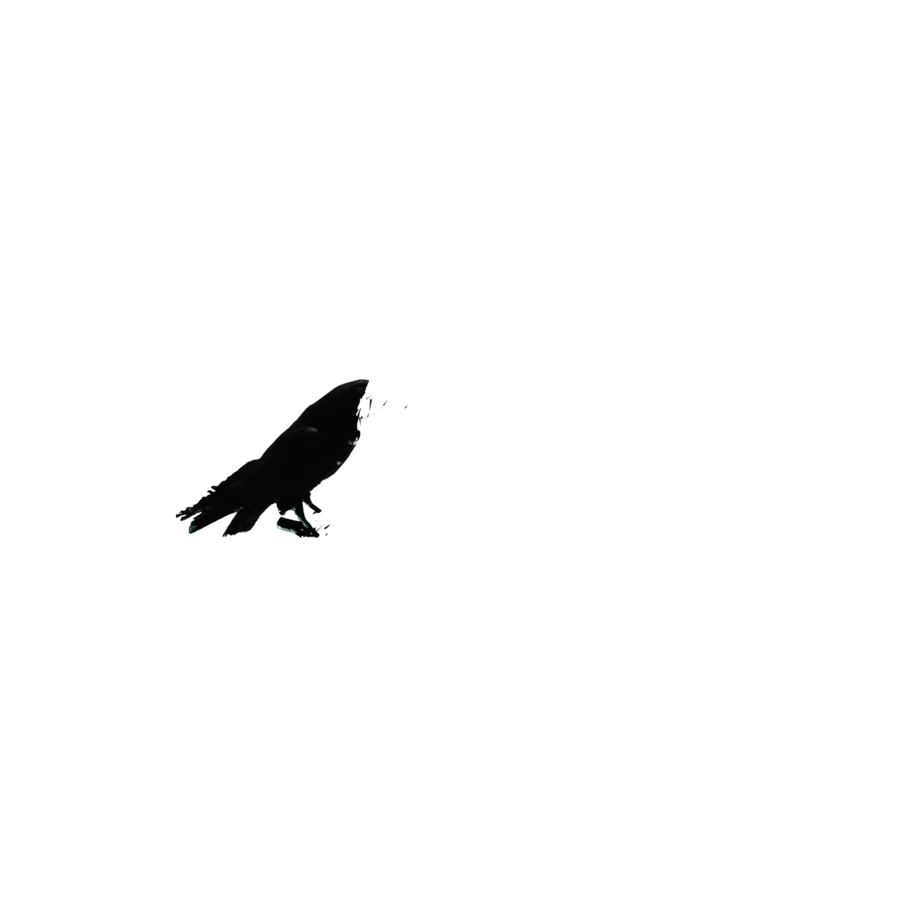
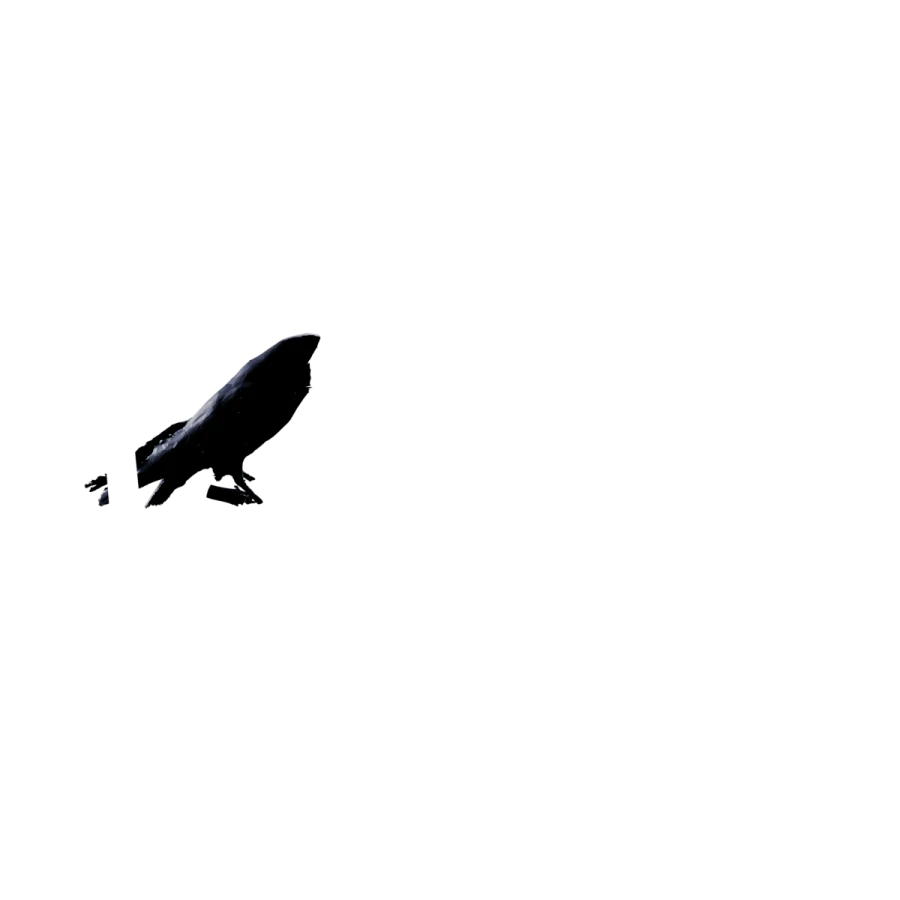
Blackwing v6: new rim-lit Odin render, 3D northern Mimir's Well

Changed region(s): [[0.1244, 0.3733, 0.4044, 0.5911], [0.0933, 0.5289, 0.1244, 0.56]]

diff --git a/blackwing/well3d.js b/blackwing/well3d.js
@@ -1,0 +1,189 @@
+// MÍMIR'S WELL in 3D. Everything here is built in code, no downloaded models:
+// a ring of rough-hewn standing stones with glowing carved runes, the roots of Yggdrasil plunging into the water,
+// and, at the bottom, Odin's eye as a sigil of light (a gold iris of fibres inside rotating rune rings) rather than a human eyeball.
+// The eye is drawn into a render target and seen through a water shader that bends it with every ripple you make.
+// Builds only when you get near the section; renders only while visible, at most 30 fps.
+import * as THREE from "three";
+
+const host = document.querySelector(".well-3d");
+const reduce = matchMedia("(prefers-reduced-motion: reduce)").matches;
+const rnd = (a, b) => a + Math.random() * (b - a);
+const RUNES = "ᚠᚢᚦᚨᚱᚲᚷᚹᚺᚾᛁᛃᛇᛈᛉᛊᛏᛒᛖᛗᛚᛜᛞᛟ";
+
+if (host) {
+  const near = new IntersectionObserver(es => { if (es[0].isIntersecting) { near.disconnect(); build().catch(e => { document.documentElement.classList.add("no-well3d"); console.warn("Well failed", e); }); } }, { rootMargin: "1200px 0px" });
+  near.observe(host);
+}
+
+async function build() {
+  let renderer;
+  try { renderer = new THREE.WebGLRenderer({ alpha: true, antialias: true, powerPreference: "high-performance" }); } catch { document.documentElement.classList.add("no-well3d"); return; }
+  try { await document.fonts?.load('64px "Noto Sans Runic"'); } catch {}
+  renderer.outputColorSpace = THREE.SRGBColorSpace; renderer.toneMapping = THREE.ACESFilmicToneMapping; renderer.toneMappingExposure = 1.1;
+  renderer.setPixelRatio(Math.min(devicePixelRatio || 1, 1.5));
+  const canvas = renderer.domElement; canvas.setAttribute("aria-hidden", "true");
+  const cam = new THREE.PerspectiveCamera(30, 1, .05, 40); cam.position.set(0, 2.2, 2.45); cam.lookAt(0, -.2, 0);
+  const tex = c => { const t = new THREE.CanvasTexture(c); t.colorSpace = THREE.SRGBColorSpace; t.anisotropy = 4; return t; };
+  const cnv = (w, h = w) => { const c = document.createElement("canvas"); c.width = w; c.height = h; return [c, c.getContext("2d")]; };
+  const add = (mat) => Object.assign(mat, { transparent: true, depthWrite: false, blending: THREE.AdditiveBlending });
+
+  /* ---------- textures painted once ---------- */
+  const irisTex = (() => { const R = 256, [c, g] = cnv(R * 2);
+    const gr = g.createRadialGradient(R, R, R * .16, R, R, R); gr.addColorStop(0, "rgba(255,244,205,1)"); gr.addColorStop(.3, "rgba(242,196,92,1)"); gr.addColorStop(.66, "rgba(185,115,29,.9)"); gr.addColorStop(.92, "rgba(80,42,11,.6)"); gr.addColorStop(1, "rgba(20,10,4,0)");
+    g.fillStyle = gr; g.beginPath(); g.arc(R, R, R, 0, 6.283); g.fill();
+    for (let i = 0; i < 900; i++) { const a = Math.random() * 6.283, r0 = R * (.18 + Math.random() * .1), r1 = R * (.5 + Math.random() * .42), b = (Math.random() - .5) * .3;
+      g.strokeStyle = Math.random() < .6 ? `rgba(255,236,180,${(.05 + Math.random() * .22).toFixed(2)})` : `rgba(60,28,6,${(.08 + Math.random() * .22).toFixed(2)})`; g.lineWidth = .6 + Math.random() * 1.6;
+      g.beginPath(); g.moveTo(R + Math.cos(a) * r0, R + Math.sin(a) * r0); g.quadraticCurveTo(R + Math.cos(a + b) * (r0 + r1) / 2, R + Math.sin(a + b) * (r0 + r1) / 2, R + Math.cos(a) * r1, R + Math.sin(a) * r1); g.stroke(); }
+    g.strokeStyle = "rgba(255,220,150,.55)"; g.lineWidth = 3; g.beginPath();
+    for (let i = 0; i <= 80; i++) { const a = i / 80 * 6.283, rr = R * (.38 + (i % 2 ? .045 : -.02)); i ? g.lineTo(R + Math.cos(a) * rr, R + Math.sin(a) * rr) : g.moveTo(R + Math.cos(a) * rr, R + Math.sin(a) * rr); } g.stroke();
+    return tex(c); })();
+  const ringTex = (count, size, inner, color) => { const R = 512, [c, g] = cnv(R * 2);
+    g.strokeStyle = color; g.globalAlpha = .55; g.lineWidth = 3; g.beginPath(); g.arc(R, R, R * inner, 0, 6.283); g.stroke(); g.beginPath(); g.arc(R, R, R * (inner + .14), 0, 6.283); g.stroke();
+    g.globalAlpha = 1; g.fillStyle = color; g.font = `${size}px "Noto Sans Runic", serif`; g.textAlign = "center"; g.textBaseline = "middle";
+    for (let i = 0; i < count; i++) { const a = i / count * 6.283; g.save(); g.translate(R + Math.cos(a) * R * (inner + .07), R + Math.sin(a) * R * (inner + .07)); g.rotate(a + Math.PI / 2); g.fillText(RUNES[i % RUNES.length], 0, 0); g.restore(); }
+    return tex(c); };
+  const vesicaTex = (() => { const [c, g] = cnv(1024, 512); g.strokeStyle = "rgba(255,226,160,1)"; g.lineWidth = 6; g.shadowColor = "#ffcf73"; g.shadowBlur = 24;
+    g.beginPath(); g.moveTo(40, 256); g.quadraticCurveTo(512, -40, 984, 256); g.quadraticCurveTo(512, 552, 40, 256); g.stroke(); return tex(c); })();
+  const softTex = (() => { const [c, g] = cnv(128); const r = g.createRadialGradient(64, 64, 0, 64, 64, 64); r.addColorStop(0, "rgba(255,255,255,1)"); r.addColorStop(1, "rgba(255,255,255,0)"); g.fillStyle = r; g.fillRect(0, 0, 128, 128); return tex(c); })();
+  const runeGlyph = ch => { const [c, g] = cnv(128); g.fillStyle = "#ffd27a"; g.shadowColor = "#ffb84d"; g.shadowBlur = 18; g.font = '92px "Noto Sans Runic", serif'; g.textAlign = "center"; g.textBaseline = "middle"; g.fillText(ch, 64, 70); return tex(c); };
+
+  /* ---------- the deep: Odin's eye as a sigil of light (rendered to a texture, seen through the water) ---------- */
+  const deep = new THREE.Scene(); deep.background = new THREE.Color(0x04050a);
+  deep.add(new THREE.AmbientLight(0x30324a, .7));
+  const wall = new THREE.Mesh(new THREE.CylinderGeometry(1.0, .82, 1.9, 40, 1, true), new THREE.MeshStandardMaterial({ color: 0x1b1a20, roughness: 1, side: THREE.BackSide, flatShading: true }));
+  wall.position.y = -.95; wall.scale.set(1.05, 1, 1.05); deep.add(wall);
+  const eye = new THREE.Group(); eye.position.y = -.5; eye.rotation.x = -Math.PI / 2; deep.add(eye);
+  const disc = (t, s, opts = {}) => { const m = new THREE.Mesh(new THREE.PlaneGeometry(s, s), add(new THREE.MeshBasicMaterial({ map: t, ...opts }))); eye.add(m); return m; };
+  const halo = disc(softTex, 2.1, { color: 0xe3a83c, opacity: .35 });
+  const ringOuter = disc(ringTex(32, 46, .78, "#c9a45c"), 1.75, { opacity: .55 });
+  const ringInner = disc(ringTex(20, 40, .62, "#9fe6dc"), 1.25, { opacity: .45 });
+  const iris = disc(irisTex, .74);
+  const pupil = new THREE.Mesh(new THREE.CircleGeometry(.12, 40), new THREE.MeshBasicMaterial({ color: 0x020203 })); pupil.position.z = .002; eye.add(pupil);
+  const vesica = disc(vesicaTex, 1.5, { opacity: .7 }); vesica.scale.set(1, .5, 1);
+  const gold = new THREE.PointLight(0xffc56b, 1.6, 2.4, 1.4); gold.position.set(0, -.6, 0); deep.add(gold);
+  const motesDeep = (() => { const n = 40, p = new Float32Array(n * 3); for (let i = 0; i < n; i++) { const a = rnd(0, 6.28), r = Math.sqrt(Math.random()) * .8; p.set([Math.cos(a) * r, rnd(-.9, -.1), Math.sin(a) * r], i * 3); }
+    const g = new THREE.BufferGeometry(); g.setAttribute("position", new THREE.BufferAttribute(p, 3));
+    const m = new THREE.Points(g, add(new THREE.PointsMaterial({ map: softTex, color: 0xffd27a, size: .05, opacity: .7 }))); deep.add(m); return m; })();
+
+  /* ---------- the surface world: stones, runes, roots, mist ---------- */
+  const scene = new THREE.Scene();
+  scene.add(new THREE.AmbientLight(0x2a2c44, 1.1));
+  const moon = new THREE.DirectionalLight(0xb8c0e8, .75); moon.position.set(-2, 4, 1.5); scene.add(moon);
+  const rimT = new THREE.DirectionalLight(0x45d6c4, 1.0); rimT.position.set(3, 1.5, -3); scene.add(rimT);
+  const glowUp = new THREE.PointLight(0xffb25a, 3, 3.4, 1.3); glowUp.position.set(0, -.05, 0); scene.add(glowUp);   // the eye lights everything from below
+
+  // rough-hewn blocks: a box, subdivided and jittered so no two faces are flat
+  const block = (() => { const g = new THREE.BoxGeometry(.34, .2, .27, 3, 2, 3).toNonIndexed(); const p = g.attributes.position; const key = {};
+    for (let i = 0; i < p.count; i++) { const k = [p.getX(i), p.getY(i), p.getZ(i)].map(v => v.toFixed(3)).join(); const j = key[k] || (key[k] = [rnd(-.018, .018), rnd(-.014, .014), rnd(-.018, .018)]);
+      p.setXYZ(i, p.getX(i) + j[0], p.getY(i) + j[1], p.getZ(i) + j[2]); }
+    g.computeVertexNormals(); return g; })();
+  // dry-stone wall: three courses of blocks, each course offset by half a block, the top course capped and rune-carved
+  const stoneMat = new THREE.MeshStandardMaterial({ color: 0x3b3735, roughness: .95, flatShading: true });
+  const N = 22, C = 3, stones = new THREE.InstancedMesh(block, stoneMat, N * C), M = new THREE.Matrix4(), Q = new THREE.Quaternion(), E = new THREE.Euler();
+  const runeFaces = [];
+  for (let c = 0; c < C; c++) for (let k = 0; k < N; k++) {
+    const a = (k + (c % 2) * .5) / N * Math.PI * 2, r = 1.17 + rnd(-.015, .015), y = -.17 + c * .19;
+    Q.setFromEuler(E.set(rnd(-.04, .04), -a + Math.PI / 2 + rnd(-.05, .05), rnd(-.04, .04)));
+    const s = new THREE.Vector3(rnd(.98, 1.08), rnd(.88, 1.02), rnd(.95, 1.1));
+    M.compose(new THREE.Vector3(Math.cos(a) * r, y, Math.sin(a) * r), Q, s); stones.setMatrixAt(c * N + k, M);
+    if (c === C - 1 && k % 2 === 0) runeFaces.push([Math.cos(a) * (r - .14), y, Math.sin(a) * (r - .14), a]);   // inner face of the top course
+  }
+  scene.add(stones);
+  // carved runes on the inner faces of the top course, kindling in turn
+  const runeMeshes = runeFaces.map(([x, y, z, a], i) => { const m = new THREE.Mesh(new THREE.PlaneGeometry(.13, .13), add(new THREE.MeshBasicMaterial({ map: runeGlyph(RUNES[(i * 5) % RUNES.length]), opacity: .25, side: THREE.DoubleSide })));
+    m.position.set(x, y, z); m.lookAt(0, y, 0); scene.add(m); return m; });
+
+  // the roots of Yggdrasil: tapered, gnarled tubes that arch over the rim and plunge into the water (also drawn in the deep, refracted)
+  const barkMat = new THREE.MeshStandardMaterial({ color: 0x5a4636, roughness: .9, flatShading: true });
+  const rootPaths = [   // come in from beyond the frame, arch over the wall top (y ≈ .3) and dive into the water
+    [[-2.4, .9, -2.2], [-1.6, .55, -1.3], [-1.08, .42, -.78], [-.78, .1, -.55], [-.6, -.4, -.4]],
+    [[2.5, .8, -2.0], [1.65, .5, -1.15], [1.05, .4, -.7], [.72, .08, -.48], [.55, -.4, -.35]],
+    [[.2, 1.0, -2.8], [.14, .58, -1.7], [.08, .44, -1.08], [.02, .12, -.78], [-.02, -.4, -.6]],
+    [[-2.6, .6, .5], [-1.7, .45, .38], [-1.12, .4, .28], [-.84, .08, .2], [-.66, -.4, .16]]];
+  const roots = rootPaths.map((pts, ri) => {
+    const curve = new THREE.CatmullRomCurve3(pts.map(p => new THREE.Vector3(...p))), seg = 64, rad = 8;
+    const g = new THREE.TubeGeometry(curve, seg, ri === 3 ? .1 : .15, rad, false), p = g.attributes.position, n = g.attributes.normal;
+    for (let i = 0; i <= seg; i++) { const t = i / seg, taper = 1 - t * .72, knot = 1 + Math.sin(t * 23 + ri) * .12, c = curve.getPointAt(t);
+      for (let j = 0; j <= rad; j++) { const v = i * (rad + 1) + j, rough = 1 + (Math.sin(j * 3.7 + i * .9 + ri) * .1);
+        p.setXYZ(v, c.x + (p.getX(v) - c.x) * taper * knot * rough, c.y + (p.getY(v) - c.y) * taper * knot * rough, c.z + (p.getZ(v) - c.z) * taper * knot * rough); } }
+    g.computeVertexNormals();
+    scene.add(new THREE.Mesh(g, barkMat)); const dm = new THREE.Mesh(g, barkMat); dm.position.y = -.05; deep.add(dm);
+    return g; });
+
+  // mist drifting over the water, and gold motes rising from it
+  const mists = Array.from({ length: 7 }, () => { const s = new THREE.Sprite(new THREE.SpriteMaterial({ map: softTex, color: 0x9aa4d8, transparent: true, opacity: .07, depthWrite: false }));
+    s.scale.set(rnd(1.2, 2), rnd(.35, .6), 1); s.position.set(rnd(-1, 1), rnd(.05, .3), rnd(-.8, .8)); s.userData.v = rnd(.04, .1) * (Math.random() < .5 ? -1 : 1); scene.add(s); return s; });
+  const motes = (() => { const n = 50, p = new Float32Array(n * 3); for (let i = 0; i < n; i++) p.set([rnd(-.8, .8), rnd(0, 1.2), rnd(-.8, .8)], i * 3);
+    const g = new THREE.BufferGeometry(); g.setAttribute("position", new THREE.BufferAttribute(p, 3));
+    const m = new THREE.Points(g, add(new THREE.PointsMaterial({ map: softTex, color: 0xffcf73, size: .035, opacity: .8 }))); scene.add(m); return m; })();
+
+  /* ---------- the water: refracts the deep, ripples where you touch ---------- */
+  const rt = new THREE.WebGLRenderTarget(4, 4, { type: THREE.HalfFloatType });
+  const ripples = Array.from({ length: 8 }, () => new THREE.Vector4(0, 0, 9, 0)); let ri = 0;
+  const ripple = (x, z, a = 1) => { ripples[ri].set(x, z, 0, a); ri = (ri + 1) % 8; };
+  const water = new THREE.Mesh(new THREE.CircleGeometry(1.04, 96).rotateX(-Math.PI / 2), new THREE.ShaderMaterial({
+    uniforms: { tScene: { value: rt.texture }, res: { value: new THREE.Vector2(1, 1) }, time: { value: 0 }, rip: { value: ripples } },
+    vertexShader: "varying vec3 vPos; void main(){ vec4 w = modelMatrix * vec4(position,1.); vPos = w.xyz; gl_Position = projectionMatrix * viewMatrix * w; }",
+    fragmentShader: `uniform sampler2D tScene; uniform vec2 res; uniform float time; uniform vec4 rip[8]; varying vec3 vPos;
+      void main(){
+        vec2 p = vPos.xz, g = vec2(cos(p.x*5.+time*1.1)+cos(p.x*9.-p.y*4.+time*.7), cos(p.y*6.-time*.9)+cos(p.y*11.+p.x*3.+time*1.3))*.0035;
+        for (int i = 0; i < 8; i++) { vec4 r = rip[i]; if (r.w <= 0.) continue; vec2 d = p - r.xy; float dist = length(d) + 1e-4, age = r.z;
+          float k = exp(-pow((dist - age*.6)*6., 2.)) * exp(-age*1.15) * r.w; g += d/dist * cos(dist*36. - age*12.) * k * .05; }
+        vec3 col = texture2D(tScene, gl_FragCoord.xy/res + g*1.1).rgb;
+        vec3 n = normalize(vec3(-g.x*9., 1., -g.y*9.)), V = normalize(cameraPosition - vPos);
+        float fres = pow(1. - max(dot(n, V), 0.), 3.);
+        col = mix(col * vec3(.8, .88, 1.), vec3(.05, .06, .11), fres * .55);
+        col += vec3(.72, .78, 1.) * pow(max(dot(n, normalize(normalize(vec3(-.5, 1., .35)) + V)), 0.), 160.) * .9;
+        col *= 1. - smoothstep(.7, 1.04, length(p)) * .75;
+        gl_FragColor = vec4(col, 1.);
+        #include <tonemapping_fragment>
+        #include <colorspace_fragment>
+      }` }));
+  scene.add(water);
+
+  /* ---------- sizing, interaction, loop ---------- */
+  const fit = () => { const w = host.clientWidth, h = host.clientHeight; if (!w || !h) return; renderer.setSize(w, h, false); cam.aspect = w / h;
+    const k = Math.max(1, 2.1 / cam.aspect); cam.position.set(0, 2.2 * k ** .8, 2.45 * k); cam.lookAt(0, -.2, 0); cam.updateProjectionMatrix();
+    const pr = renderer.getPixelRatio(); rt.setSize(Math.round(w * pr * .75), Math.round(h * pr * .75)); water.material.uniforms.res.value.set(w * pr, h * pr); };
+  host.appendChild(canvas); fit(); addEventListener("resize", fit);
+  document.documentElement.classList.add("well3d-on");
+
+  const ray = new THREE.Raycaster(), ndc = new THREE.Vector2(), look = new THREE.Vector2(), lookTo = new THREE.Vector2();
+  let lastRip = 0, pointerAt = 0;
+  const hit = e => { const r = canvas.getBoundingClientRect(); ndc.set(((e.clientX - r.left) / r.width) * 2 - 1, -((e.clientY - r.top) / r.height) * 2 + 1); ray.setFromCamera(ndc, cam); return ray.intersectObject(water)[0]; };
+  canvas.addEventListener("pointermove", e => { const h = hit(e); if (!h) return; pointerAt = performance.now(); lookTo.set(h.point.x, h.point.z);
+    if (pointerAt - lastRip > 130) { lastRip = pointerAt; ripple(h.point.x, h.point.z, .8); } });
+  canvas.addEventListener("pointerdown", e => { const h = hit(e); if (h) ripple(h.point.x, h.point.z, 1.4); });
+
+  let visible = false;
+  new IntersectionObserver(([e]) => { visible = e.isIntersecting; }, { rootMargin: "60px 0px" }).observe(host);
+  let last = 0, prev = 0, nextDrip = 0, nextBlink = 0, blink = 0, nextSac = 0;
+  const motePos = motes.geometry.attributes.position, deepPos = motesDeep.geometry.attributes.position;
+  function frame(now) {
+    requestAnimationFrame(frame);
+    if (!visible || document.hidden || window.blackwing?.isPaused?.()) { prev = now; return; }
+    if (now - last < 32) return; last = now;
+    const t = now / 1000, dt = reduce ? 0 : Math.min(.05, (now - (prev || now)) / 1000); prev = now;
+    if (!nextBlink) { nextBlink = t + 3; nextDrip = t + 1; }
+    // the eye: rune rings turn against each other, the pupil follows you (or wanders), it blinks now and then
+    ringOuter.rotation.z += dt * .07; ringInner.rotation.z -= dt * .11; iris.rotation.z += dt * .02;
+    if (now - pointerAt > 2500 && t > nextSac) { lookTo.set(rnd(-.5, .5), rnd(-.4, .4)); nextSac = t + rnd(1.2, 3); }
+    look.lerp(lookTo, 1 - Math.exp(-dt * 7));
+    pupil.position.set(look.x * .14, -look.y * .14, .002); iris.position.set(look.x * .06, -look.y * .06, .001);
+    if (t > nextBlink) { blink = 1; nextBlink = t + rnd(4, 9); } blink = Math.max(0, blink - dt / .35);
+    const open = 1 - Math.sin(blink * Math.PI) * .92, pulse = .8 + Math.sin(t * 1.3) * .2;
+    vesica.scale.y = .5 * open; iris.scale.y = open; pupil.scale.setScalar(1 + Math.sin(t * .8) * .08);
+    halo.material.opacity = .3 * pulse; gold.intensity = 1.5 * pulse; glowUp.intensity = 2.8 * pulse;
+    // carved runes kindle one after another
+    runeMeshes.forEach((m, i) => { m.material.opacity = .22 + .6 * Math.max(0, Math.sin(t * .9 - i * .8)) ** 6; });
+    for (const s of mists) { s.position.x += s.userData.v * dt; if (Math.abs(s.position.x) > 1.4) s.userData.v *= -1; }
+    for (let i = 0; i < motePos.count; i++) { let y = motePos.getY(i) + dt * .12; if (y > 1.3) y = 0; motePos.setY(i, y); }
+    for (let i = 0; i < deepPos.count; i++) { let y = deepPos.getY(i) + dt * .05; if (y > -.05) y = -.55; deepPos.setY(i, y); }
+    motePos.needsUpdate = deepPos.needsUpdate = true;
+    if (t > nextDrip && !reduce) { const a = rnd(0, 6.28), k = Math.sqrt(Math.random()) * .7; ripple(Math.cos(a) * k, Math.sin(a) * k, .7); nextDrip = t + rnd(2.2, 4.5); }
+    water.material.uniforms.time.value = t;
+    for (const r of ripples) if (r.w > 0) { r.z += dt; if (r.z > 4) r.w = 0; }
+    renderer.setRenderTarget(rt); renderer.render(deep, cam); renderer.setRenderTarget(null); renderer.render(scene, cam);
+  }
+  requestAnimationFrame(frame);
+}

diff --git a/blackwing/index.html b/blackwing/index.html
@@ -18,7 +18,7 @@
 <link rel="preconnect" href="https://cdn.jsdelivr.net" crossorigin>
 <link href="https://fonts.googleapis.com/css2?family=Cinzel:wght@500;700;900&family=Cormorant+Garamond:ital,wght@1,500;1,600&family=Inter:wght@400;500;600&family=JetBrains+Mono:wght@400;500&family=Noto+Sans+Runic&display=swap" rel="stylesheet">
 <link rel="modulepreload" href="blackwing/raven3d.js?v=12">
-<link rel="stylesheet" href="blackwing/blackwing.css?v=7">
+<link rel="stylesheet" href="blackwing/blackwing.css?v=8">
 </head>
 <body>
 <a class="skip" href="#thought">Skip to the work</a>
@@ -127,6 +127,7 @@
       <div><p class="mono kicker-line" data-runes>Mímir's Well · Muninn's memory</p><h2 data-runes>What the well remembers</h2></div>
     </header>
     <figure class="well">
+      <div class="well-3d" aria-hidden="true"></div>
       <canvas id="well" aria-hidden="true"></canvas>
       <figcaption>Odin gave one eye to drink from this well. It still watches from the water. <span class="mono">touch the surface</span></figcaption>
     </figure>
@@ -168,12 +169,12 @@
       <div><p class="mono kicker-line" data-runes>Hliðskjálf · dusk</p><h2 data-runes>The ravens return</h2></div>
     </header>
     <div class="dusk-grid">
-      <figure class="odin" aria-label="Odin, the All-Father: a dark silhouette with Gungnir and a ring of runes behind him. His two ravens land on his shoulders, and only his one eye lights.">
-        <img class="odin-sil" src="blackwing/odin.webp" alt="" width="900" height="900" loading="lazy" decoding="async">
-        <img class="raven-perch" data-at=".37,.47" src="blackwing/ravenL.webp" alt="" width="900" height="900" loading="lazy" decoding="async">
-        <img class="raven-perch" data-at=".655,.45" src="blackwing/ravenR.webp" alt="" width="900" height="900" loading="lazy" decoding="async">
-        <i class="glint rv" style="left:41.84%;top:43.86%"></i><i class="glint rv" style="left:60.2%;top:41.73%"></i>
-        <i class="glint odin-eye" style="left:52.83%;top:44.99%"></i>
+      <figure class="odin" aria-label="Odin, the All-Father: a dark figure in a fur mantle, Gungnir in hand, lit only at the edges. His two ravens land on his shoulders, and only his one eye lights.">
+        <img class="odin-sil" src="blackwing/odin.webp?v=2" alt="" width="900" height="900" loading="lazy" decoding="async">
+        <img class="raven-perch" data-at=".285,.448" src="blackwing/ravenL.webp?v=2" alt="" width="900" height="900" loading="lazy" decoding="async">
+        <img class="raven-perch" data-at=".599,.425" src="blackwing/ravenR.webp?v=2" alt="" width="900" height="900" loading="lazy" decoding="async">
+        <i class="glint rv" style="left:36.19%;top:38.88%"></i><i class="glint rv" style="left:55.47%;top:36.83%"></i>
+        <i class="glint odin-eye" style="left:50.43%;top:39.3%"></i>
         <figcaption class="odin-cap mono">The All-Father · one eye given to Mímir, one that sees everything</figcaption>
       </figure>
       <div class="contact-copy">
@@ -219,6 +220,7 @@
 
 <script type="importmap">{ "imports": { "three": "https://cdn.jsdelivr.net/npm/three@0.160.0/build/three.module.min.js", "three/addons/": "https://cdn.jsdelivr.net/npm/three@0.160.0/examples/jsm/" } }</script>
 <script type="module" async src="blackwing/raven3d.js?v=12"></script>
+<script type="module" async src="blackwing/well3d.js?v=3"></script>
 <script src="https://cdnjs.cloudflare.com/ajax/libs/gsap/3.12.5/gsap.min.js" defer></script>
 <script src="https://cdnjs.cloudflare.com/ajax/libs/gsap/3.12.5/ScrollTrigger.min.js" defer></script>
 <script src="https://cdnjs.cloudflare.com/ajax/libs/gsap/3.12.5/MotionPathPlugin.min.js" defer></script>

diff --git a/blackwing/blackwing.css b/blackwing/blackwing.css
@@ -343,3 +343,10 @@ html.no-webgl #well { display: block; } html.no-webgl .well-3d { display: none; 
 @keyframes flare { 30% { box-shadow: 0 0 14px 6px #fff0c4, 0 0 60px 22px #ffcf73, 0 0 140px 50px #c9a45c88; } }
 .odin-cap { position: absolute; left: 0; right: 0; bottom: 4px; text-align: center; font-size: 11px; letter-spacing: .14em; text-transform: uppercase; color: var(--dim); opacity: 0; transition: opacity 1.4s; }
 .odin.awake .odin-cap { opacity: 1; color: var(--gold); }
+
+/* ---------- v6: Mímir's Well in 3D (standing stones, Yggdrasil's roots, the rune-eye of light under the water) ---------- */
+.well-3d { display: block !important; width: 100%; height: 440px; cursor: crosshair; touch-action: pan-y; }
+.well-3d canvas { width: 100%; height: 100%; display: block; }
+#well { display: none !important; }
+html.no-well3d .well-3d { display: none !important; } html.no-well3d #well { display: block !important; }
+@media (max-width: 680px) { .well-3d { height: 300px; } }

diff --git a/blackwing/README.md b/blackwing/README.md
@@ -33,3 +33,8 @@ Only the two hero ravens are still real-time 3D. Everything else is 2D, which is
 - **Mímir's Well** is a 2D canvas again. The eye is drawn, not modelled: an almond eye with a gold iris of 640 painted fibres, a collarette and a ring of runes, a breathing pupil and highlights. It follows your cursor and blinks. The water ripples where you touch it, and each ripple bends the eye: it is copied in thin rows, each pushed sideways by the waves crossing it.
 - Removed: `odin.glb` and `eye.glb` (1.7 MB). The 3D module now only draws the hero ravens.
 - Source files are in `D:\Crow\` (`odin_web.blend`, `sil_*.png`, `crowf_*.png`).
+
+## v6: a new Odin, and Mímir's Well in 3D
+- **Odin** is now the full 1.4M-triangle "ODIN Alföðr" sculpt (Tom Holbein / VDCnordic, CC BY 4.0), rendered once in Blender as a figure in near-total darkness: a near-black material, thin volumetric fog, a backlight and violet/teal rim lights that pick out the hood, the braids, the fur mantle and Gungnir. The halo, the sculpted ravens and everything below the waist were cut away. The image fades to black at the edges (`odin.webp`, 21 KB). The rigged ravens are rendered into their own transparent layers in the same light (`ravenL.webp`, `ravenR.webp`). Only his left eye and the ravens' eyes glow, at positions projected from the 3D scene.
+- **Mímir's Well** is real-time 3D again (`well3d.js`), but no longer a human eye: a dry-stone well of three offset courses of rough-hewn blocks, with runes carved on the inner face of the top course that kindle in turn. The roots of Yggdrasil arch over the wall and plunge into the water. Under the water lies Odin's eye as a sigil of light: a gold iris of painted fibres inside two rune rings turning against each other, framed by a vesica of light, with a dark pupil that follows your cursor and a lid of light that blinks. The water is a shader that refracts the deep through the ripples you make (move or click). Mist drifts over it and gold motes rise. Everything is built in code; it builds only near the section and renders only while visible, at most 30 fps. If WebGL fails, the 2D canvas well comes back.
+- The render scripts and sources are in `D:\Crow\` (`odin2_*.png`).
